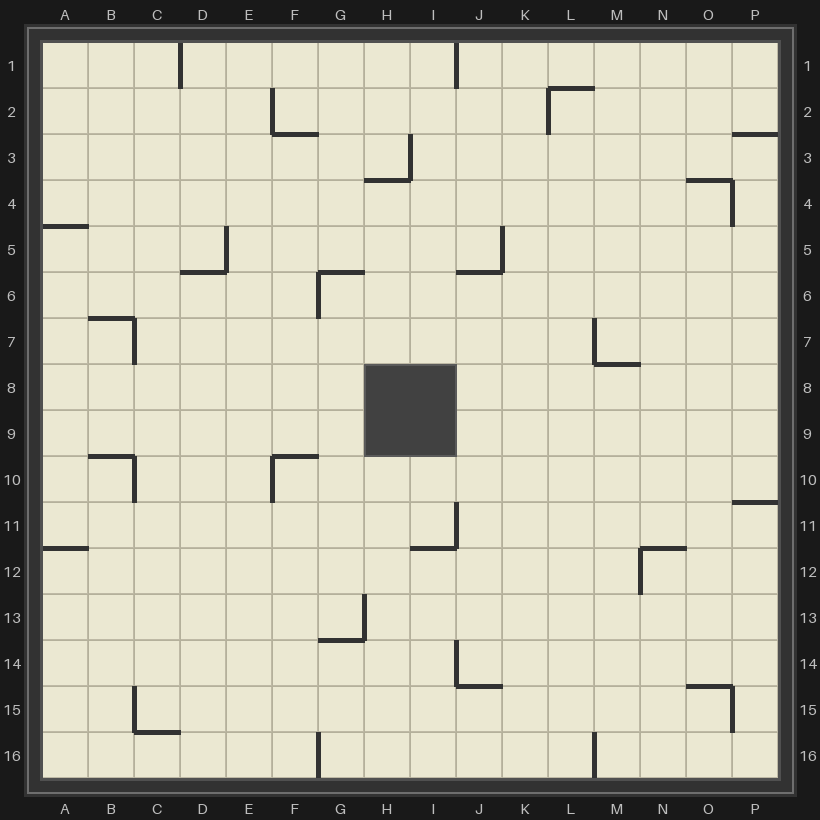
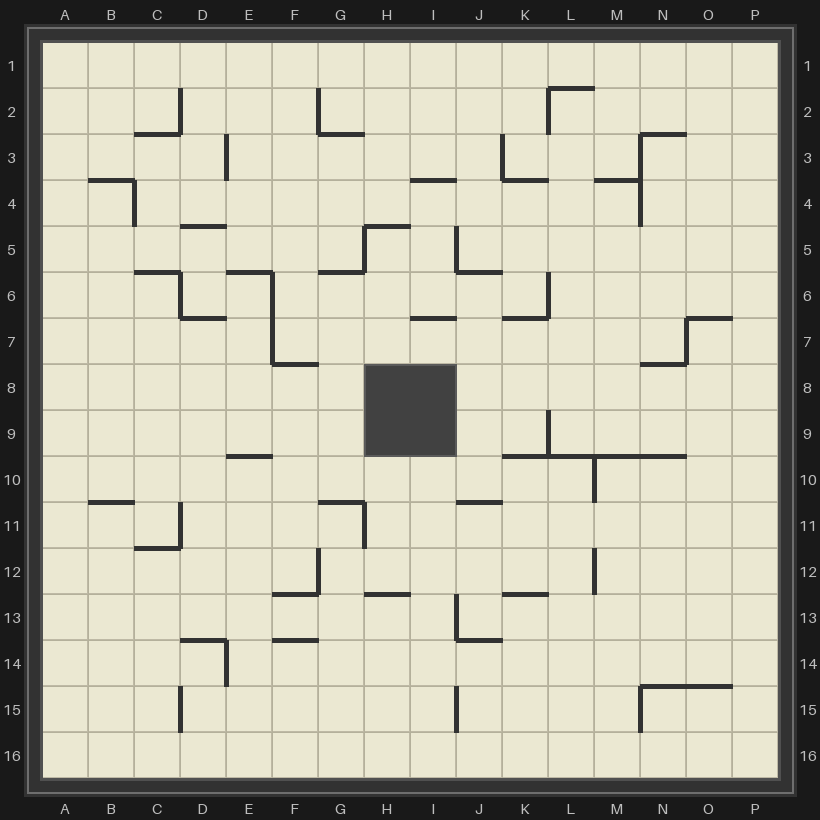
Sync board walls with Ricochet_Robots.py reference; regenerate board PNG

diff --git a/ricochet_robots_board.py b/ricochet_robots_board.py
@@ -37,94 +37,59 @@ WALL_THICKNESS = 5
 # Each L-wall = two perpendicular line segments meeting at a corner.
 FIXED_WALLS = [
 
-    # Single Walls -------------------------------------------------------
+    # ── Target pocket walls (one per side of each target cell) ──────────────
+    # red circle   (1, 2)
+    (1,  2,  "S"),  (1,  2,  "E"),
+    # red square   (2, 13)
+    (2,  13, "N"),  (2,  13, "W"),
+    # red triangle (11, 5)
+    (11, 5,  "S"),  (11, 5,  "E"),
+    # red star     (9, 12)
+    (9,  12, "N"),  (9,  12, "W"),
+    # green circle (3, 1)
+    (3,  1,  "N"),  (3,  1,  "E"),
+    # green square (4, 9)
+    (4,  9,  "S"),  (4,  9,  "W"),
+    # green triangle (1, 6)
+    (1,  6,  "S"),  (1,  6,  "W"),
+    # green star   (13, 3)
+    (13, 3,  "N"),  (13, 3,  "E"),
+    # blue circle  (5, 4)
+    (5,  4,  "N"),  (5,  4,  "E"),
+    # blue square  (2, 10)
+    (2,  10, "S"),  (2,  10, "W"),
+    # blue triangle (10, 2)
+    (10, 2,  "S"),  (10, 2,  "E"),
+    # blue star    (6, 14)
+    (6,  14, "N"),  (6,  14, "W"),
+    # yellow circle (4, 6)
+    (4,  6,  "S"),  (4,  6,  "E"),
+    # yellow square (1, 11)
+    (1,  11, "N"),  (1,  11, "W"),
+    # yellow triangle (12, 9)
+    (12, 9,  "S"),  (12, 9,  "W"),
+    # yellow star  (14, 13)
+    (14, 13, "N"),  (14, 13, "W"),
+    # all vortex   (8, 11)
+    (8,  11, "S"),  (8,  11, "W"),
 
-    # Row 1, between C & D (East wall of C1)
-    (0,  2, "E"),
-    # Row 1, between I & J
-    (0,  8, "E"),
-    # Row 16, between F & G
-    (15, 5, "E"),
-    # Row 16, between L & M
-    (15, 11, "E"),
-    # Column 1, betweek 4 & 5
-    (3,  0, "S"),   # S of A4 (horizontal, touches left border)
-    # Column 1, betweek 11 & 12
-    (10, 0, "S"),   # S of A11
-    # Column 15, betweek 2 & 3
-    (1, 15, "S"),   # N of O3 (horizontal, touches right border)
-    # Column 15, betweek 10 & 11
-    (9, 15, "S"),   # N of O10
-
-    # L-walls -------------------------------------------------------
-
-    # L-bracket at F/G cols, rows 2-3: vertical between F&G at row2, horizontal below G row2
-    (1,  5, "W"),
-    (1,  5, "S"),
-
-    # L-bracket at H/I cols, rows 3-4: horizontal below I row3, vertical between H&I at row3
-    (1,  11, "N"),
-    (1,  11, "W"),
-
-    # L-bracket at A/B cols, rows 4-5: horizontal below A row4, vertical between A&B at row4
-    (2,  7, "S"),
-    (2,  7, "E"),
-
-    # L-bracket at E/F cols, rows 5-6: vertical between E&F at row5, horizontal below E row5
-    (3,  14, "E"),
-    (3,  14, "N"),
-
-    # L-bracket at C/D cols, rows 6: vertical between C&D row6, horizontal below C row6
-    (4,  3, "E"),
-    (4,  3, "S"),
-
-    # L-bracket at G/H cols, rows 6-7: horizontal below G row6, vertical between G&H row7
-    (4,  9, "S"),
-    (4,  9, "E"),
-
-    # L-bracket at J/K cols, rows 4-5: vertical between J&K at row4, horizontal below J row4
-    (5,  6, "W"),
-    (5,  6, "N"),
-
-    # L-bracket at L/M cols, rows 2: vertical between L&M row2, horizontal below L row2
-    (6, 1, "E"),
-    (6, 1, "N"),
-
-    # L-bracket at N/O cols, rows 3-4: vertical between N&O rows 3-4, horizontal above O row4
-    (6, 12, "W"),
-    (6, 12, "S"),
-
-    # L-bracket at B/C cols, rows 9-10: vertical between B&C row10, horizontal below B row10
-    (9,  1, "E"),
-    (9,  1, "N"),
-
-    # L-bracket at B/C cols, rows 6-7: vertical between B&C row6-7, horizontal below B row7
-    (9,  5, "W"),
-    (9,  5, "N"),
-
-    # L-bracket at L/M cols, rows 7: vertical between L&M row7, horizontal below L row7
-    (10, 8, "E"),
-    (10, 8, "S"),
-
-    # L-bracket at M/N cols, rows 7-8: horizontal above N row8, vertical between M&N row7
-    (11, 13, "W"),
-    (11, 13, "N"),
-
-    # Row 11, between A&B (touches left border): horizontal S of A11
-    (12, 6, "S"),
-    (12, 6, "E"),
-
-    # L-bracket at F/G cols, rows 9-10: vertical between F&G row9, horizontal below F row9
-    (13,  9, "W"),
-    (13,  9, "S"),
-
-    # L-bracket at J/K cols, rows 11: horizontal below J row11, vertical between J&K row11
-    (14, 2, "S"),
-    (14, 2, "W"),
-
-    # Row 14, between O&P (touches right border): horizontal S of P10
-    (14, 14, "N"),
-    (14, 14, "E"),
+    # ── Extra corridor walls ─────────────────────────────────────────────────
+    (2,  3,  "E"),  (3,  3,  "S"),
+    (5,  2,  "N"),  (5,  2,  "E"),
+    (6,  5,  "S"),  (6,  5,  "W"),
+    (3,  7,  "S"),
+    (2,  8,  "S"),
+    (3,  12, "N"),  (3,  12, "E"),
+    (5,  10, "S"),  (5,  11, "W"),
+    (6,  8,  "N"),
+    (9,  1,  "S"),  (9,  4,  "N"),
+    (10, 6,  "E"),  (11, 7,  "S"),
+    (13, 5,  "N"),  (14, 2,  "E"),
+    (9,  9,  "S"),  (9,  13, "N"),
+    (11, 11, "E"),  (12, 10, "N"),
+    (13, 14, "S"),  (14, 8,  "E"),
+    (6,  3,  "N"),  (9,  6,  "S"),
+    (6,  13, "S"),  (9,  10, "N"),
 ]
 
 

diff --git a/board.py b/board.py
@@ -89,30 +89,22 @@ FIXED_TARGETS_DEF: list[tuple] = [
 ]
 
 EXTRA_WALLS_DEF: list[tuple[int, int, str]] = [
-    # Single walls touching borders
-    (0,  2,  'E'),  (0,  8,  'E'),
-    (15, 5,  'E'),  (15, 11, 'E'),
-    (3,  0,  'S'),  (10, 0,  'S'),
-    (1,  15, 'S'),  (9,  15, 'S'),
-
-    # L-walls (interior)
-    (1,  5,  'W'),  (1,  5,  'S'),
-    (1,  11, 'N'),  (1,  11, 'W'),
-    (2,  7,  'S'),  (2,  7,  'E'),
-    (3,  14, 'E'),  (3,  14, 'N'),
-    (4,  3,  'E'),  (4,  3,  'S'),
-    (4,  9,  'S'),  (4,  9,  'E'),
-    (5,  6,  'W'),  (5,  6,  'N'),
-    (6,  1,  'E'),  (6,  1,  'N'),
-    (6,  12, 'W'),  (6,  12, 'S'),
-    (9,  1,  'E'),  (9,  1,  'N'),
-    (9,  5,  'W'),  (9,  5,  'N'),
-    (10, 8,  'E'),  (10, 8,  'S'),
-    (11, 13, 'W'),  (11, 13, 'N'),
-    (12, 6,  'S'),  (12, 6,  'E'),
-    (13, 9,  'W'),  (13, 9,  'S'),
-    (14, 2,  'S'),  (14, 2,  'W'),
-    (14, 14, 'N'),  (14, 14, 'E'),
+    (2,  3,  'E'),  (3,  3,  'S'),
+    (5,  2,  'N'),  (5,  2,  'E'),
+    (6,  5,  'S'),  (6,  5,  'W'),
+    (3,  7,  'S'),
+    (2,  8,  'S'),
+    (3,  12, 'N'),  (3,  12, 'E'),
+    (5,  10, 'S'),  (5,  11, 'W'),
+    (6,  8,  'N'),
+    (9,  1,  'S'),  (9,  4,  'N'),
+    (10, 6,  'E'),  (11, 7,  'S'),
+    (13, 5,  'N'),  (14, 2,  'E'),
+    (9,  9,  'S'),  (9,  13, 'N'),
+    (11, 11, 'E'),  (12, 10, 'N'),
+    (13, 14, 'S'),  (14, 8,  'E'),
+    (6,  3,  'N'),  (9,  6,  'S'),
+    (6,  13, 'S'),  (9,  10, 'N'),
 ]
 
 
